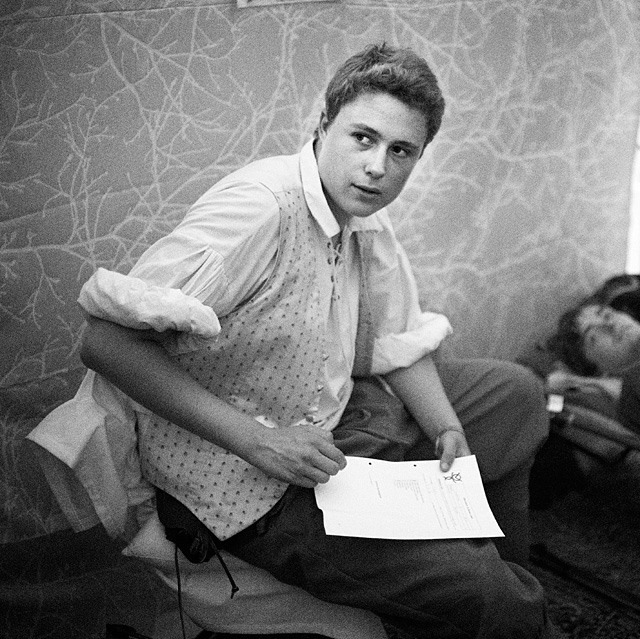
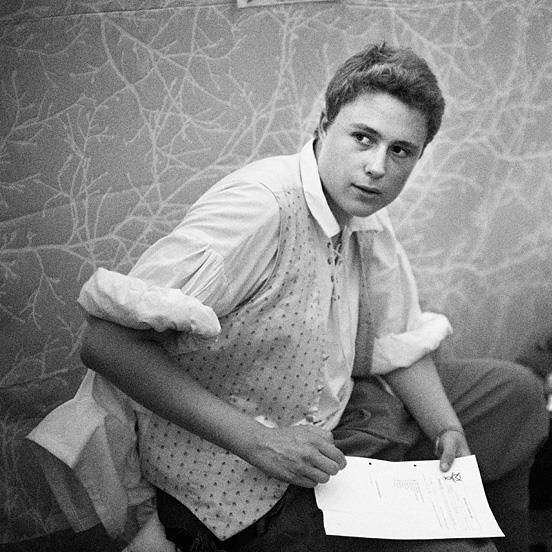
Fixed responsive styling

diff --git a/src/global.css b/src/global.css
@@ -46,8 +46,6 @@ body {
   margin: 0;
   display: flex;
   flex-direction: column;
-  /* height: 100%; */
-  /* min-width: 492px; */
 }
 
 main {
@@ -106,8 +104,8 @@ a {
 
 
 footer {
-  margin: auto 0 0 auto;
-  padding: 15px;
+  margin: auto var(--body-padding) 0 var(--body-padding);
+  padding: 15px 0px 15px 0px;
   text-align: center;
   font-size: 0.8rem;
   font-weight: var(--font-weight-light);
@@ -157,12 +155,12 @@ footer a:hover {
 .home-page-photo {
   border-radius: 10%;
   height: auto;
-  width: 90vw;
-  min-width: 200px;
+  width: 65vw;
+  min-width: 300px;
 }
 
 .hero-title {
-  font-size: 8em;
+  font-size: 10vw;
   text-transform: uppercase;
   line-height: 0.85em;
 }
@@ -177,10 +175,10 @@ footer a:hover {
   --animation-speed: 500ms;
   display: flex;
   flex-direction: row;
-  gap: 10px;
-  width: 7em;
+  gap: 5px;
+  width: 6.3em;
   margin: auto;
-  padding: 10px;
+  padding: 8px;
   color: var(--color-green-light);
   border-style: solid;
   border-color: var(--color-purple-mid);

diff --git a/src/routes/index.tsx b/src/routes/index.tsx
@@ -83,7 +83,7 @@ export default component$(() => {
         </div>
       </div>
 
-      <img className='home-page-photo' src="/josh-photo.jpg" alt="Picture of Joshua Bruylant" loading='lazy' />
+      <img className='home-page-photo' src="/images/josh-photo.jpg" alt="Picture of Joshua Bruylant" loading='lazy' />
     </div>
   );
 });
